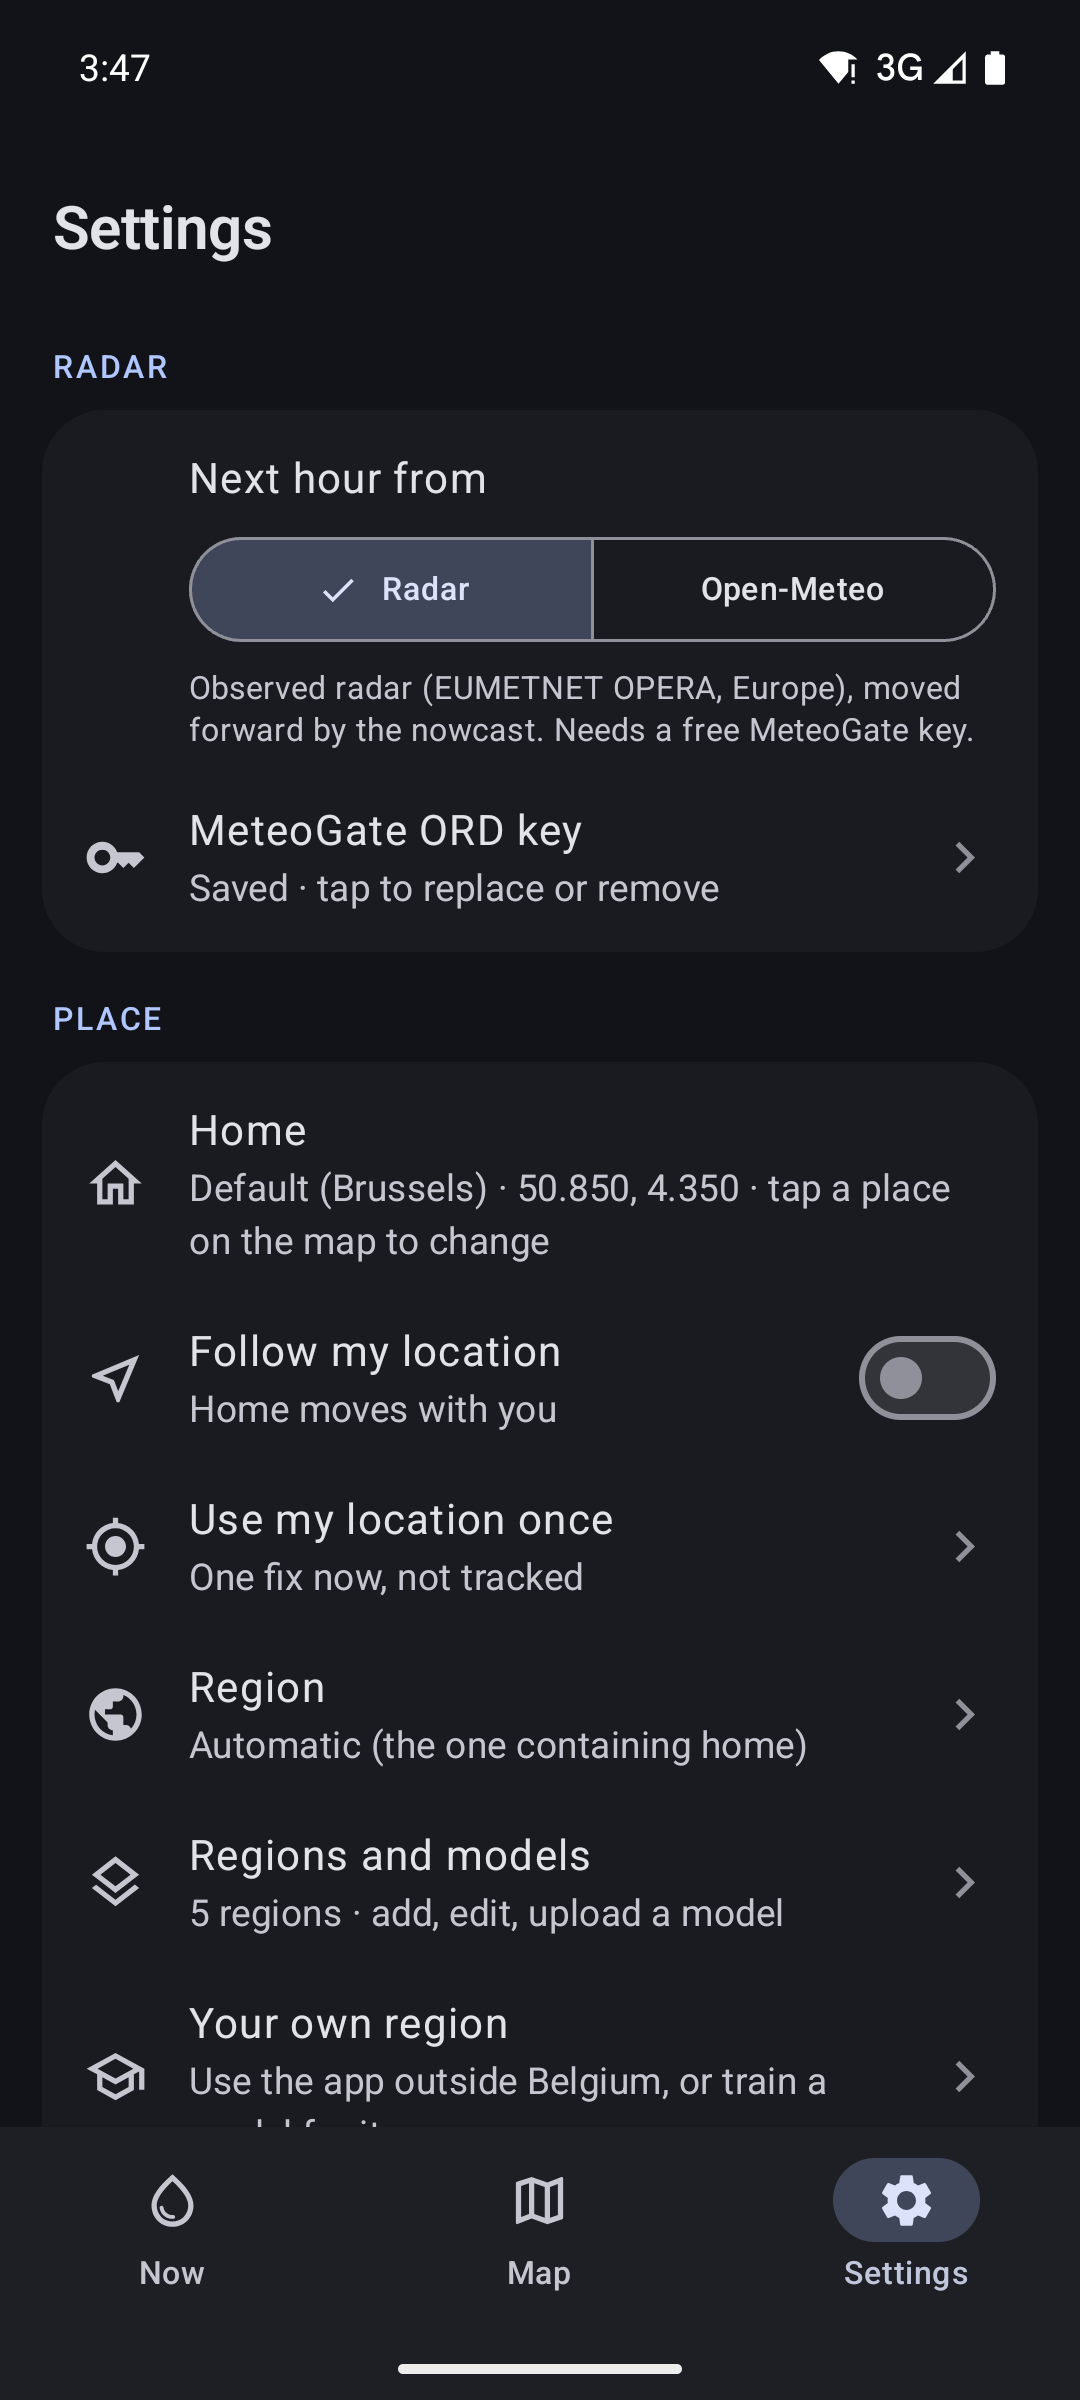
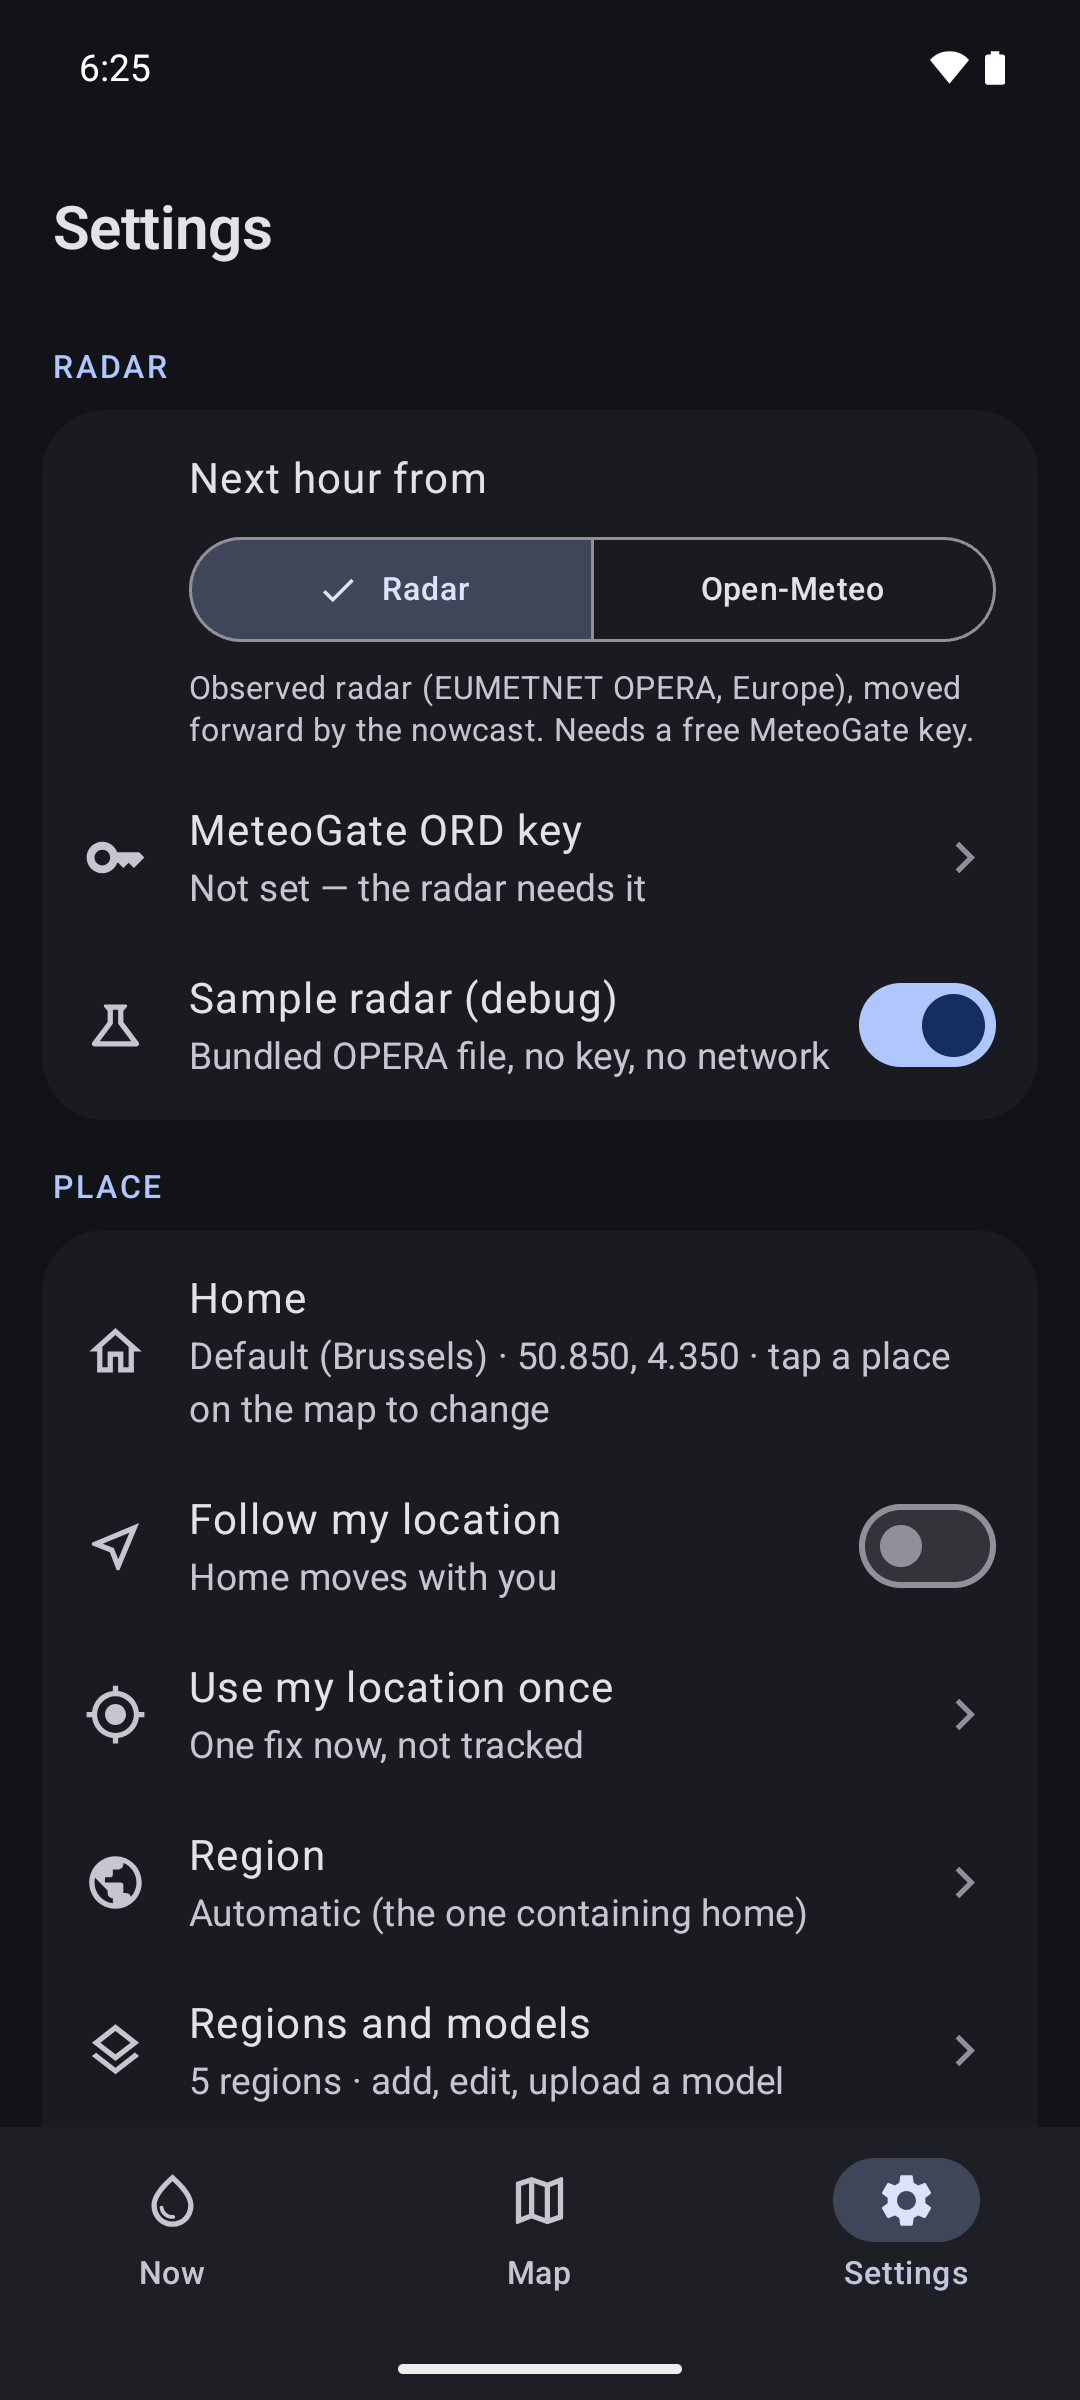
Promo screenshots with rain on the radar
The debug demo mode replays an archived OPERA hour pushed by play/screenshots/rain.sh
(3 May 2026, a convective line reaching Brussels), restamped to now.

diff --git a/app/src/main/kotlin/nowcast/app/Repo.kt b/app/src/main/kotlin/nowcast/app/Repo.kt
@@ -355,12 +355,28 @@ object Demo {
         val base = Odim.readCrop(f, region)
         val now = Instant.now().epochSecond
         val t0 = Instant.ofEpochSecond(now - now % 300)
+        File(ctx.filesDir, "demo_frames.bin").takeIf { it.exists() }?.let { return replay(it, base.geo, t0) }
         val g = base.rain
         return List(12) { k ->
             val dx = 2 * (11 - k)
             Frame(t0.minusSeconds(300L * (11 - k)),
                 Grid(g.h, g.w, DoubleArray(g.h * g.w) { i -> val c = i % g.w + dx; if (c < g.w) g.v[i - i % g.w + c] else 0.0 }),
                 base.geo)
+        }
+    }
+
+    /** An archived hour pushed by play/screenshots/rain.sh (n, h, w; x1, y2, px, py; projdef;
+     *  n*h*w float32 mm/h on the same 1 km OPERA grid), cut to the region's crop and restamped to now. */
+    private fun replay(f: File, geo: GridGeo, t0: Instant): List<Frame> = java.io.DataInputStream(f.inputStream().buffered()).use { s ->
+        val n = s.readInt(); val h = s.readInt(); val w = s.readInt()
+        val x1 = s.readDouble(); val y2 = s.readDouble(); s.readDouble(); s.readDouble(); s.readUTF()
+        val dr = Math.round((y2 - geo.y2) / geo.py).toInt(); val dc = Math.round((geo.x1 - x1) / geo.px).toInt()
+        List(n) { k ->
+            val a = FloatArray(h * w) { s.readFloat() }
+            Frame(t0.minusSeconds(300L * (n - 1 - k)), Grid(geo.h, geo.w, DoubleArray(geo.h * geo.w) { i ->
+                val r = i / geo.w + dr; val c = i % geo.w + dc
+                if (r in 0 until h && c in 0 until w) a[r * w + c].toDouble() else Double.NaN
+            }), geo)
         }
     }
 }

diff --git a/play/screenshots/demo_frames.py b/play/screenshots/demo_frames.py
@@ -1,0 +1,15 @@
+# 12 archive frames ending at index k -> demo_frames.bin for the app's debug demo mode (big-endian):
+# int n, h, w; double x1, y2, px, py; UTF projdef; n * h * w float32 mm/h (NaN off-radar)
+import sys, struct, numpy as np, h5py
+sample, npz, k, out = sys.argv[1], sys.argv[2], int(sys.argv[3]), sys.argv[4]
+r0, c0 = 2394, 1368                                       # the archive's 384 km crop around 50.5 N, 4.5 E
+with h5py.File(sample) as f:
+    w = f["where"].attrs; pd = w["projdef"]; pd = pd.decode() if isinstance(pd, bytes) else str(pd)
+    import pyproj; p = pyproj.Proj(pd)
+    xs, ys = float(w["xscale"]), float(w["yscale"])
+    x1 = p(float(w["LL_lon"]), float(w["LL_lat"]))[0]; y2 = p(float(w["UR_lon"]), float(w["UR_lat"]))[1]
+z = np.load(npz); a = z["rain"][k - 11:k + 1].astype(">f4"); n, h, ww = a.shape
+print("frames", z["times"][k - 11], "->", z["times"][k], a.shape, "max %.1f mm/h" % np.nanmax(a))
+with open(out, "wb") as o:
+    o.write(struct.pack(">iii", n, h, ww)); o.write(struct.pack(">dddd", x1 + c0 * xs, y2 - r0 * ys, xs, ys))
+    b = pd.encode(); o.write(struct.pack(">H", len(b)) + b); o.write(a.tobytes())

diff --git a/play/listing.md b/play/listing.md
@@ -46,7 +46,7 @@ Data: radar © EUMETNET OPERA via MeteoGate (CC BY 4.0); forecasts by Open-Meteo
 | Feature graphic | `graphics/feature-1024x500.png` | 1024 × 500, no transparency |
 | Phone screenshots | `screenshots/1-now.png` … `5-settings.png` | 2–8, 1080 × 2400 is fine |
 
-The screenshots were taken on a dry day; `screenshots/take.sh` retakes them from the emulator or a phone, and a rainy day shows the app far better.
+The screenshots replay a real rainy hour (OPERA radar, 3 May 2026) in the debug build's demo mode: `screenshots/rain.sh`, then `screenshots/take.sh`. The 48-hour bars after the first hour are that day's live forecast.
 
 ## Release notes for 1.0.0 (500 max)
 
